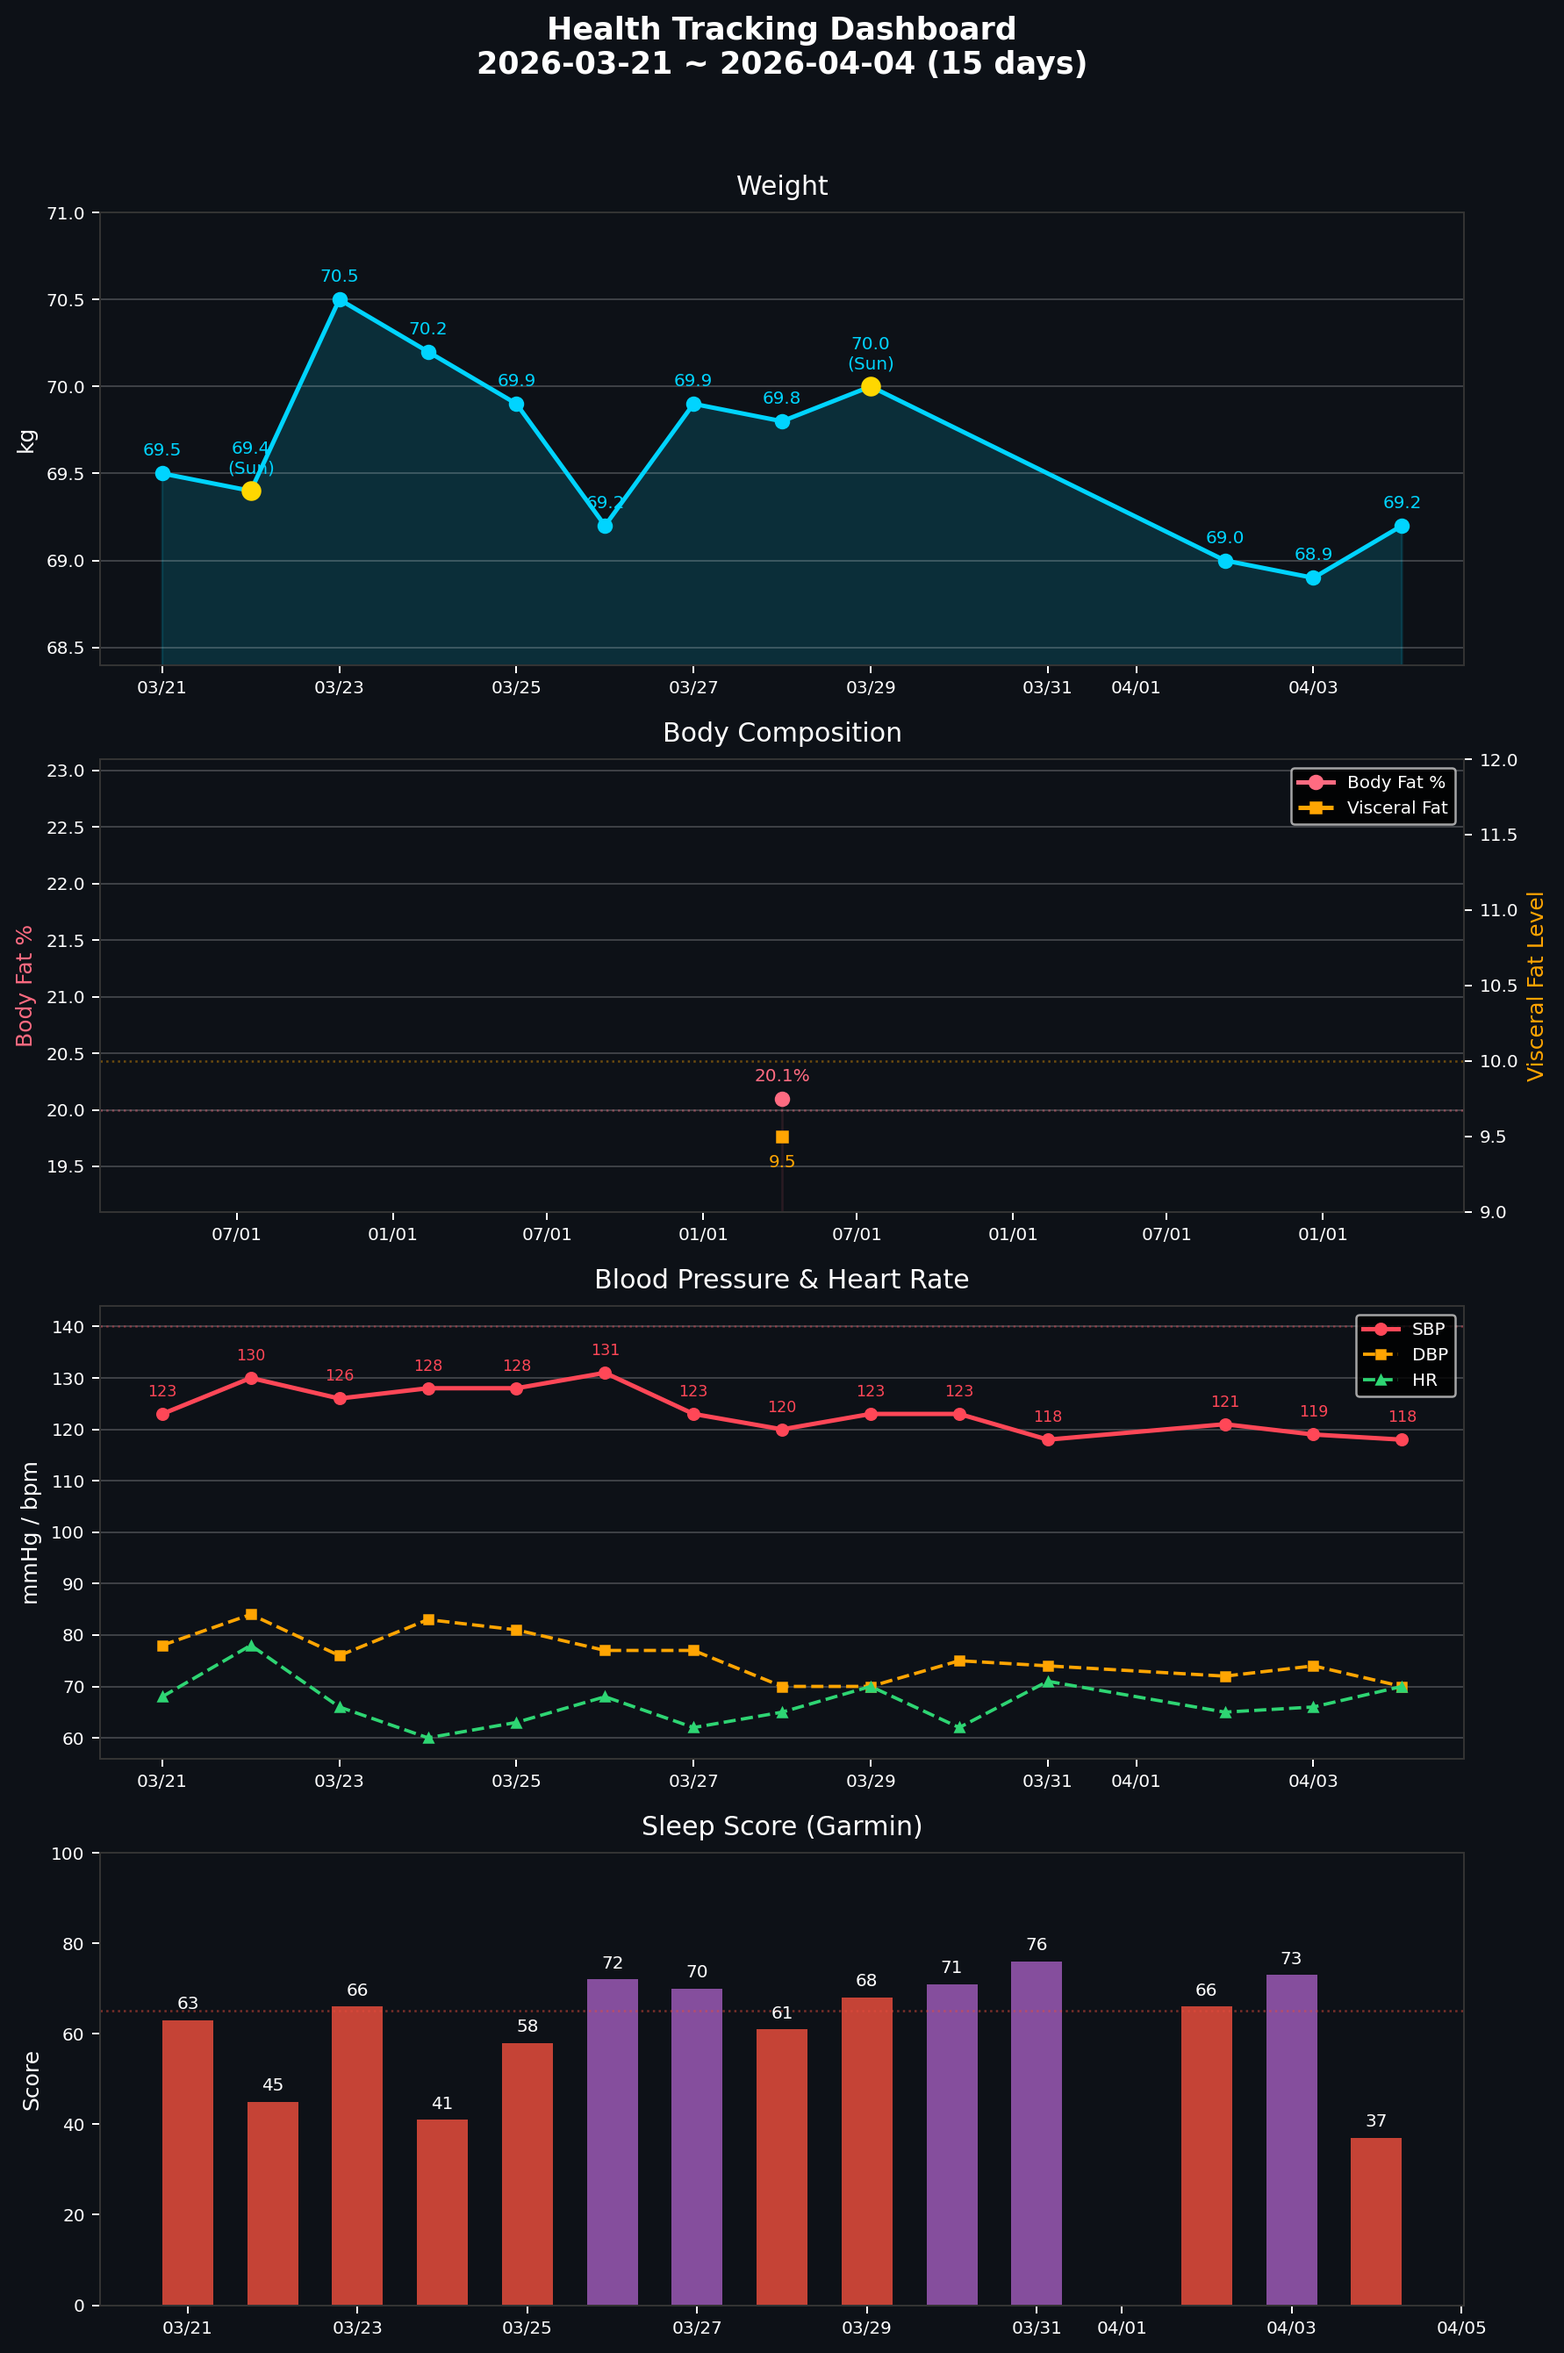
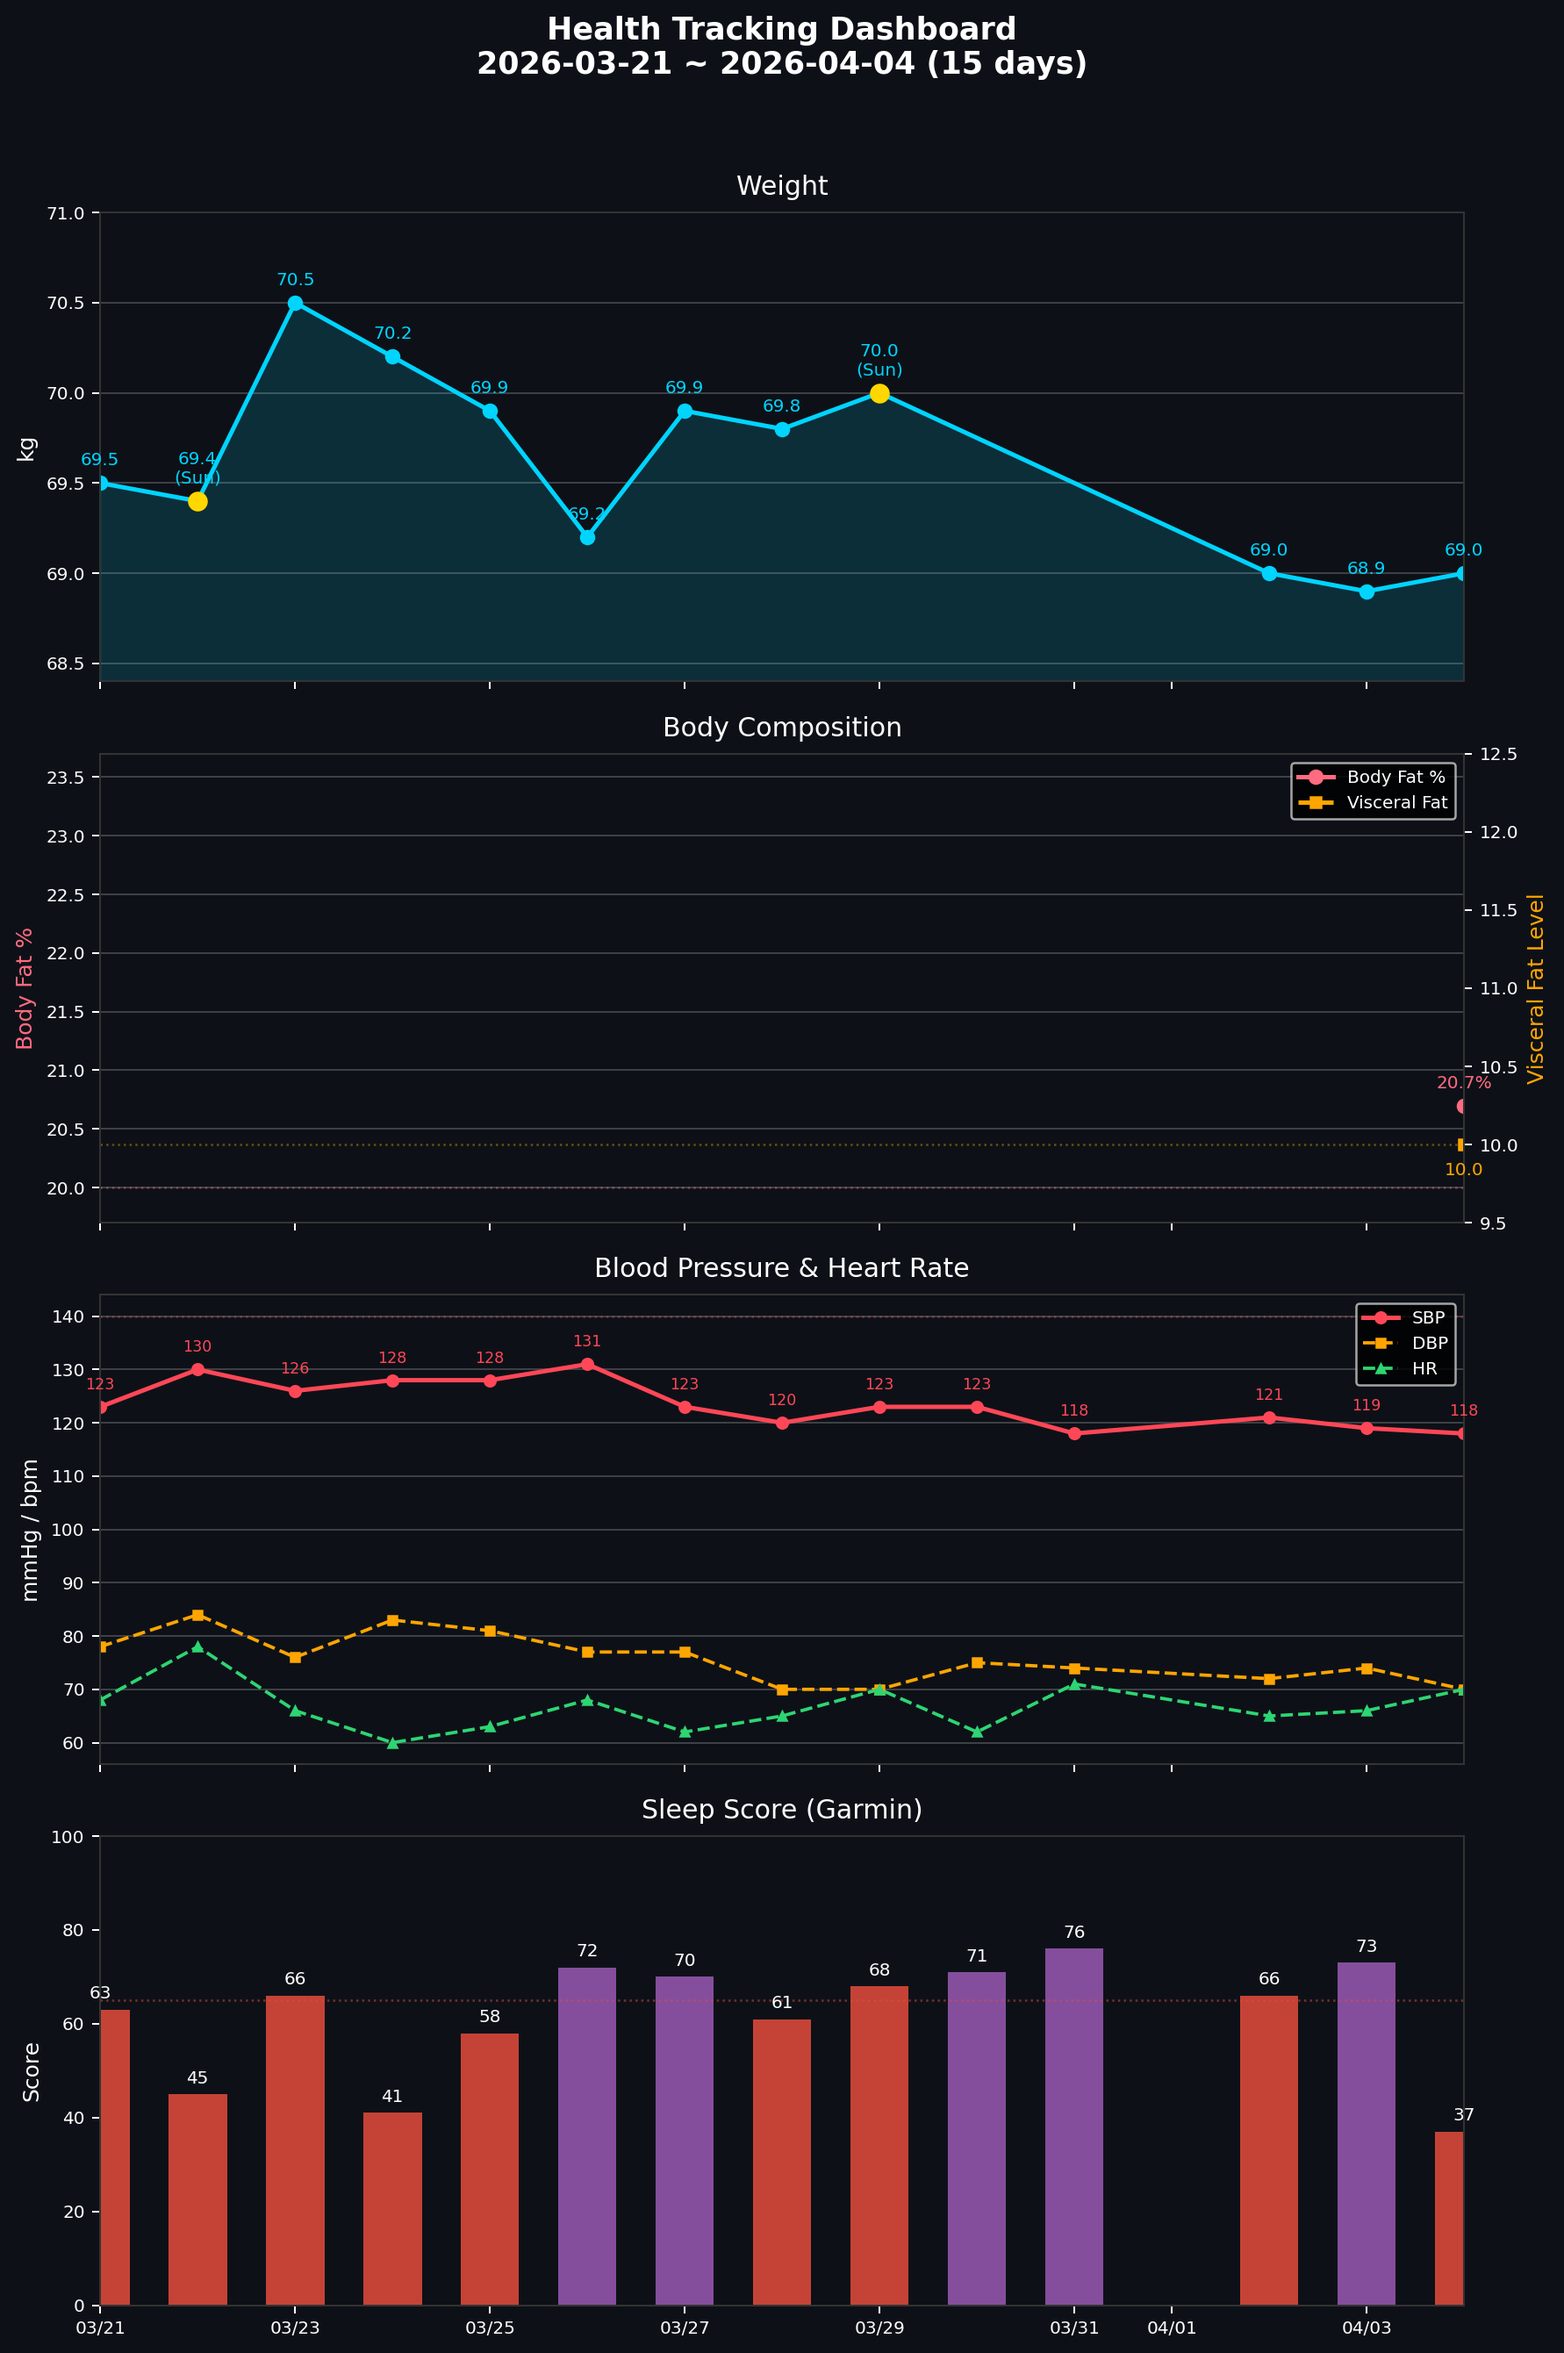
Fix 2026-04-04 data and dashboard x-axis alignment
- Correct weight to 69.0kg, body fat to 20.7%, visceral fat to 10
- Fix Body Composition panel x-axis via sharex=True across all panels

diff --git a/scripts/generate_dashboard.py b/scripts/generate_dashboard.py
@@ -83,7 +83,7 @@ def generate_dashboard(data_list, output_path):
 
     # Dark theme
     plt.style.use("dark_background")
-    fig, axes = plt.subplots(4, 1, figsize=(10, 15), dpi=180)
+    fig, axes = plt.subplots(4, 1, figsize=(10, 15), dpi=180, sharex=True)
     fig.patch.set_facecolor("#0d1117")
 
     title = f"Health Tracking Dashboard\n{first_date} ~ {last_date} ({n_days} days)"
@@ -150,7 +150,8 @@ def generate_dashboard(data_list, output_path):
     ax2r.set_ylabel("Visceral Fat Level", fontsize=10, color="#ffa502")
     ax2.tick_params(axis="y", colors="#ff6b81")
     ax2r.tick_params(axis="y", colors="#ffa502")
-    ax2.xaxis.set_major_formatter(mdates.DateFormatter("%m/%d"))
+    ax2r.set_xlim(dates[0], dates[-1])
+    ax2r.xaxis.set_visible(False)
     ax2.grid(axis="y", alpha=0.2)
 
     # Combined legend

diff --git a/reviews/daily/2026-04-04.md b/reviews/daily/2026-04-04.md
@@ -6,9 +6,9 @@
 
 ## 體重
 
-**今日：69.2 kg**
-**體脂率：20.1%**
-**內臟脂肪等級：9.5**
+**今日：69.0 kg**
+**體脂率：20.7%**
+**內臟脂肪等級：10**
 
 *每週日早晨為正式紀錄（排尿後、進食前）。其他日可選填。*
 
